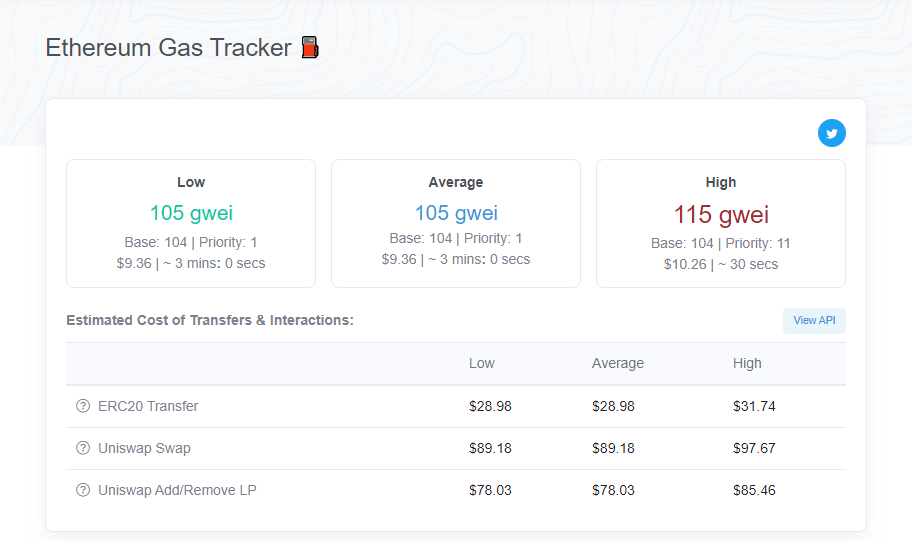
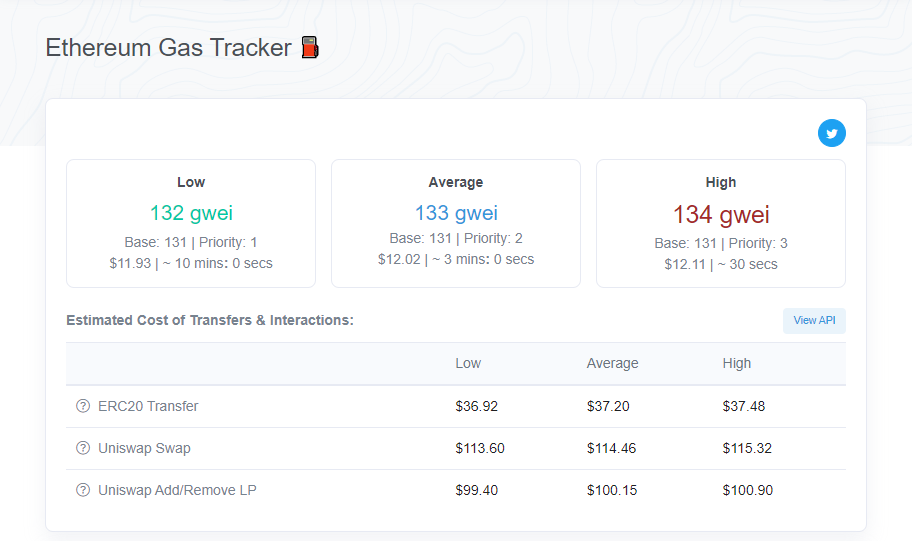
Driver remains open, getgas now refreshes

diff --git a/gaspricebot.py b/gaspricebot.py
@@ -13,10 +13,13 @@ url = os.getenv('TARGET_URL')
 path = os.getenv('TARGET_FILE')
 TOKEN = os.getenv('DISCORD_TOKEN')
 
+#Open driver and get gas page
+driver = webdriver.Chrome()
+driver.get(url)
+
 #Grab image through chromedriver using selenium
 async def getgas():
-    driver = webdriver.Chrome()
-    driver.get(url)
+    driver.refresh()
     el = driver.find_element(By.ID, "body")
     el.screenshot(path)
     crop_image()
